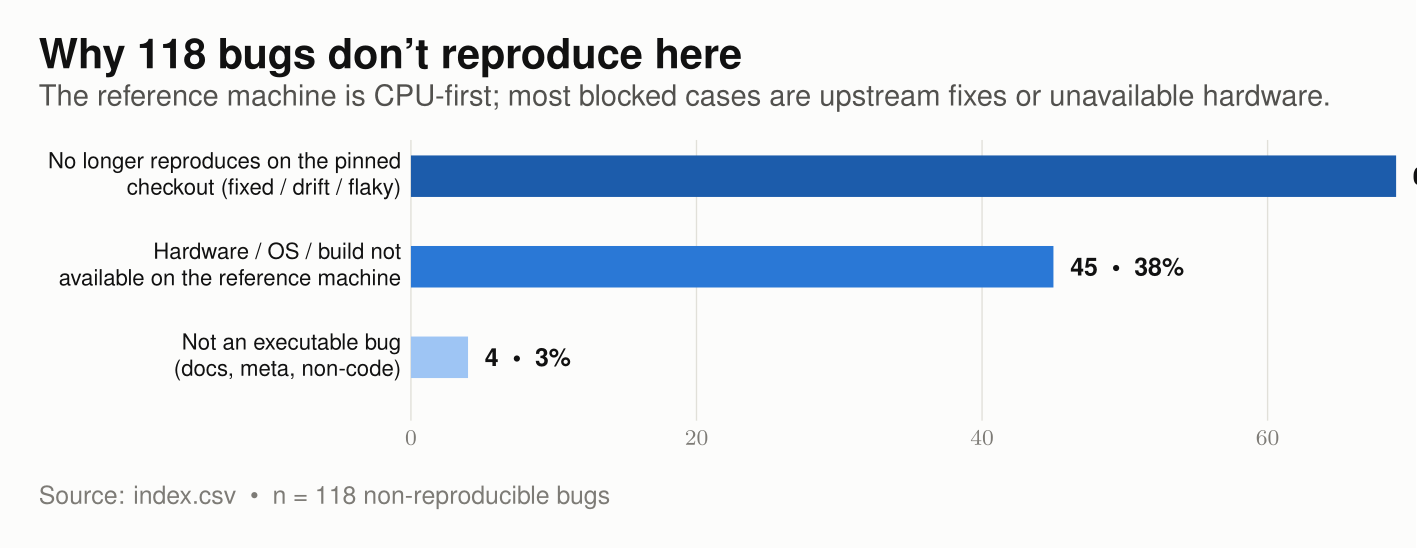
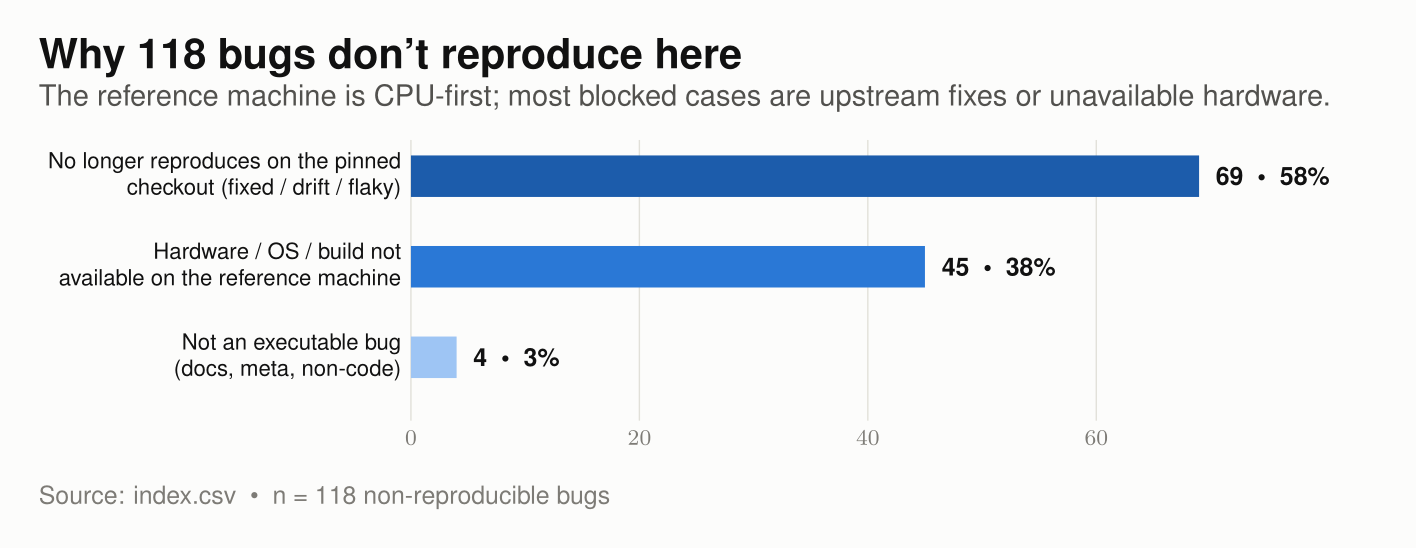
feat: fixed figures

diff --git a/scripts/make_figures.py b/scripts/make_figures.py
@@ -242,14 +242,19 @@ def fig_rate(rows):
         (red if repo == "vllm" else blue).append(f"({rate:.2f},{i})")
         ylabels.append(tex_escape(repo))
         col = "crit" if repo == "vllm" else "ink"
-        labels.append(rf"\node[anchor=west,color={col},font=\small\bfseries] "
-                      rf"at (axis cs:{rate:.2f},{i}) {{\;{rate:.0f}\%}};")
+        # fill=surface masks the dashed mean line where a label crosses it.
+        labels.append(rf"\node[anchor=west,color={col},font=\small\bfseries,"
+                      rf"fill=surface,inner xsep=3pt,inner ysep=1pt] "
+                      rf"at (axis cs:{rate:.2f},{i}) {{{rate:.0f}\%}};")
     n = len(items)
     body = r"""
 \FigTitle{Reproduction rate by repository}
-\FigSub{Repositories with $\geq$ 15 bugs. GPU-serving / distributed libraries (vLLM) reproduce least; CPU-friendly ones (NumPyro) most.}
+\FigSub{Repositories with $\geq$ 15 bugs. GPU-serving / distributed libraries (vLLM) reproduce least; CPU-friendly ones (NumPyro, smolagents) most.}
 \begin{tikzpicture}
 \begin{axis}[barbase, xbar, width=15cm, height=10.5cm, bar width=12pt,
+  %% both series share one category slot: without this pgfplots groups them and
+  %% every bar is drawn off its own row label.
+  every axis plot/.append style={bar shift=0pt},
   xmin=0, xmax=112, ymax=%(ymax).1f, xtick={0,20,40,60,80,100},
   xticklabel={\pgfmathprintnumber{\tick}\%%},
   ytick={0,...,%(last)d}, yticklabels={%(ylabels)s}, y=0.62cm,
@@ -284,10 +289,18 @@ def fig_blocking(rows):
     assert sum(c[1] for c in cats) == notr, (
         f"manual blocking grouping sums to {sum(c[1] for c in cats)}, "
         f"but index.csv has {notr} non-reproducible bugs")
+    # Leave room to the right of the longest bar for its value label, and put the
+    # ticks on a round step -- otherwise the widest bar's label runs off the page.
+    top = max(c[1] for c in cats)
+    xmax = top * 1.34
+    step = 20 if xmax <= 110 else 25
+    xticks = ",".join(str(t) for t in range(0, int(top) + 1, step))
+
     cats = cats[::-1]
     plots, labels, ylabels = [], [], []
     for i, (lab, v, col) in enumerate(cats):
-        plots.append(rf"\addplot[fill={col},draw=none,xbar] coordinates {{({v},{i})}};")
+        plots.append(rf"\addplot[fill={col},draw=none,xbar,bar shift=0pt] "
+                     rf"coordinates {{({v},{i})}};")
         labels.append(rf"\node[anchor=west,color=ink,font=\small\bfseries] "
                       rf"at (axis cs:{v},{i}) {{\;{v} \;\textbullet\; {round(v/notr*100)}\%}};")
         ylabels.append(r"{\footnotesize\begin{tabular}{@{}r@{}}" +
@@ -297,7 +310,7 @@ def fig_blocking(rows):
 \FigSub{The reference machine is CPU-first; most blocked cases are upstream fixes or unavailable hardware.}
 \begin{tikzpicture}
 \begin{axis}[barbase, width=15cm, height=5.2cm, bar width=15pt,
-  xmin=0, xmax=74, ymax=2.4, xtick={0,20,40,60},
+  xmin=0, xmax=%(xmax).1f, ymax=2.4, xtick={%(xticks)s},
   ytick={0,1,2}, yticklabels={%(ylabels)s}, y=1.15cm,
   ]
 %(plots)s
@@ -306,7 +319,7 @@ def fig_blocking(rows):
 \end{tikzpicture}
 \FigFoot{Source: index.csv \;\textbullet\; n = %(notr)d non-reproducible bugs}
 """ % dict(notr=notr, ylabels=",".join(ylabels), plots="\n".join(plots),
-           labels="\n".join(labels))
+           labels="\n".join(labels), xmax=xmax, xticks=xticks)
     build("blocking_breakdown", body, varwidth="17cm")
 
 
